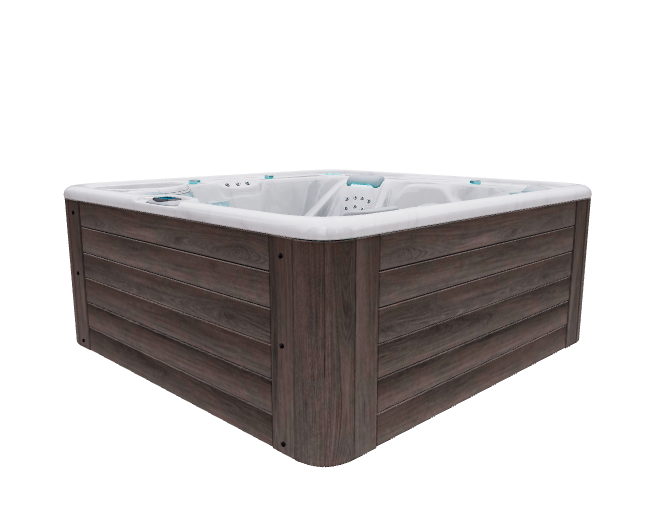
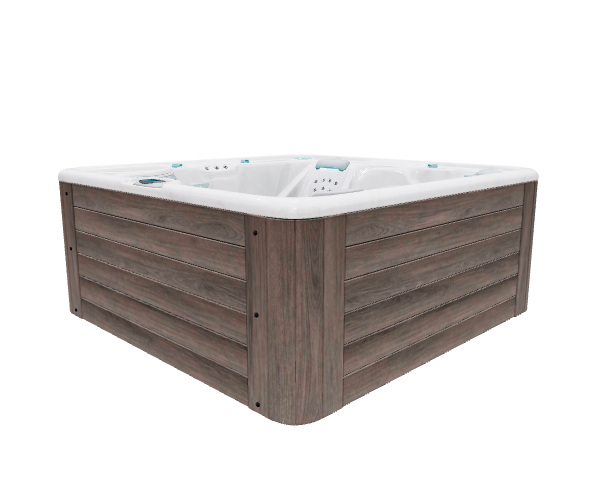
feat: implement ModelViewer component with auto-fitting, idle wobble, and screenshot capture functionality

Changed region(s): [[0.0902, 0.3215, 0.9015, 0.9061]]

diff --git a/src/components/ModelViewer.tsx b/src/components/ModelViewer.tsx
@@ -95,14 +95,17 @@ interface FitCameraProps {
   controlsRef: React.RefObject<CameraControlsImpl | null>;
   modelSize: THREE.Vector3 | null;
   shadowOffset: number;
+  modelUrl: string;
 }
 
-function FitCamera({ controlsRef, modelSize, shadowOffset }: FitCameraProps) {
+function FitCamera({ controlsRef, modelSize, shadowOffset, modelUrl }: FitCameraProps) {
   useEffect(() => {
     if (controlsRef.current && modelSize) {
       // 1. Create a padded bounding box centered at [0, shadowOffset, 0]
-      // Multiply size by 1.15 to position camera closer (making the model look larger)
-      const paddedSize = modelSize.clone().multiplyScalar(1.15);
+      // Multiply size by a smaller scalar for Sculptformer to position the camera closer (making it look larger)
+      const isSculptformer = modelUrl.toLowerCase().includes('sculptformer');
+      const multiplier = isSculptformer ? 0.8 : 1.15;
+      const paddedSize = modelSize.clone().multiplyScalar(multiplier);
       const centeredBox = new THREE.Box3().setFromCenterAndSize(
         new THREE.Vector3(0, shadowOffset, 0),
         paddedSize
@@ -111,10 +114,15 @@ function FitCamera({ controlsRef, modelSize, shadowOffset }: FitCameraProps) {
       // 2. Fit the camera controls to this padded box
       controlsRef.current.fitToBox(centeredBox, false);
 
-      // 3. Rotate the camera to look from a corner (45 degrees azimuth, 78 degrees polar for a lower view)
+      // 3. Set dynamic zoom limits: maxDistance is the default starting distance, and allow zooming in up to 88% of it
+      const defaultDistance = controlsRef.current.distance;
+      controlsRef.current.maxDistance = defaultDistance;
+      controlsRef.current.minDistance = defaultDistance * 0.88; // 12% slight zoom-in room
+
+      // 4. Rotate the camera to look from a corner (45 degrees azimuth, 78 degrees polar for a lower view)
       controlsRef.current.rotateTo(Math.PI / 4, Math.PI / 2.3, false);
 
-      // 4. Set the rotation pivot point exactly to [0, shadowOffset, 0]
+      // 5. Set the rotation pivot point exactly to [0, shadowOffset, 0]
       controlsRef.current.setTarget(0, shadowOffset, 0, false);
     }
   }, [modelSize, shadowOffset, controlsRef]);
@@ -252,6 +260,7 @@ export function ModelViewer({ modelUrl, onLoaded, imageUrl }: ModelViewerProps) 
                 controlsRef={controlsRef}
                 modelSize={modelSize}
                 shadowOffset={shadowOffset}
+                modelUrl={modelUrl}
               />
               <IdleWobble
                 controlsRef={controlsRef}
@@ -266,7 +275,7 @@ export function ModelViewer({ modelUrl, onLoaded, imageUrl }: ModelViewerProps) 
             <FrameRenderNotifier onReady={onLoaded} />
           )}
         </Suspense>
-        <CameraControls ref={controlsRef} minDistance={1} maxDistance={20} dollySpeed={0} truckSpeed={0} />
+        <CameraControls ref={controlsRef} dollySpeed={0.3} truckSpeed={0} />
       </Canvas>
 
       {/* Dev helper: Capture WebGL screenshot to match Option 1 alignment */}
